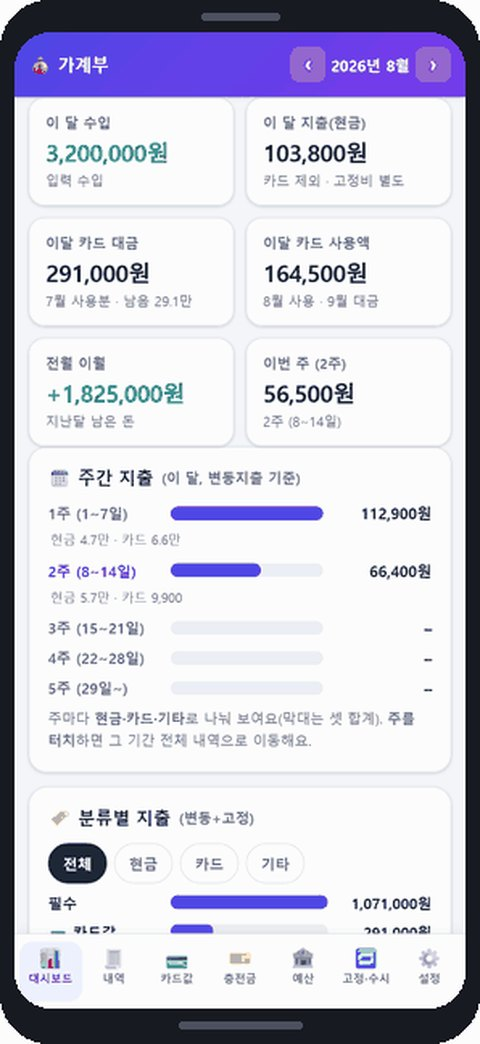
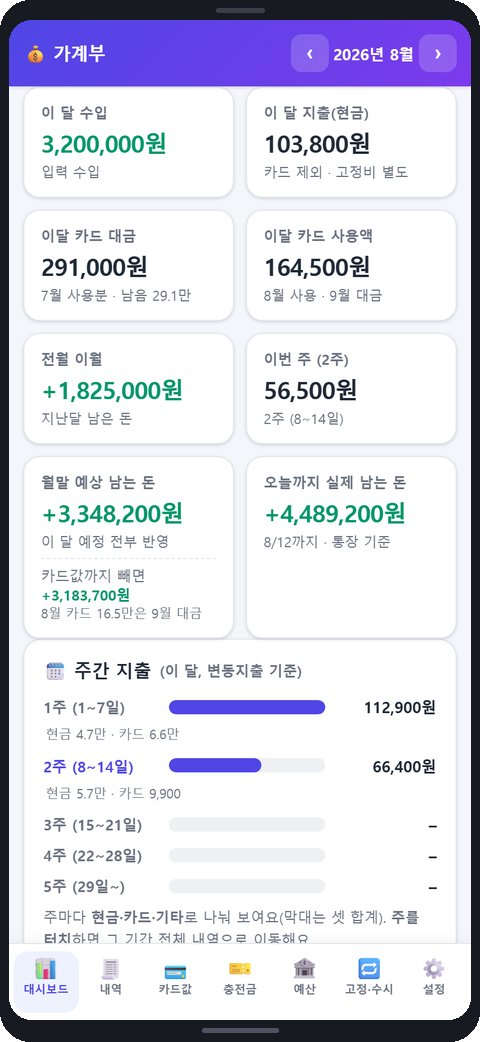
가계부 시연 영상·정지 화면 갱신, 상태 줄 v2.28 @49·jsdom 403/403

diff --git a/site/index.html b/site/index.html
@@ -1253,7 +1253,7 @@ html.is-modal{overflow:hidden;padding-right:var(--sbw,0px)}
         <article class="card">
           <div class="card-shot" data-shot="budget" aria-hidden="true"></div>
           <div class="card-meta" data-i18n="개인-프로덕트-기획-개발">개인 프로덕트 · 기획 · 개발 · 운영</div>
-          <div class="card-wm" aria-hidden="true">v2.23</div>
+          <div class="card-wm" aria-hidden="true">v2.28</div>
           <div class="card-bot">
             <h3><button class="card-open" type="button" data-work="budget" aria-haspopup="dialog" data-i18n="우리집-가계부">우리집 가계부<span class="sr-only" data-i18n="상세-보기"> 상세 보기</span><svg class="ic" aria-hidden="true"><use href="#i-arrup"/></svg></button></h3>
             <p data-i18n="부부-2인이-매일-쓰는">부부 2인이 매일 쓰는 가계부 웹앱. Google Apps Script + 단일 HTML 구성으로 라이브 운영 중.</p>
@@ -1918,9 +1918,9 @@ const WORKS = {
        { href:'https://v.douyu.com/show/jNBdvnrxRzBvE2yw', label:'유저 하이라이트' }] },
   // 개인 프로덕트 — v(시연 영상)·l(외부 링크)은 이 항목에만 있는 선택 필드다.
   budget: { m:'개인 프로덕트 · 기획 · 개발 · 운영', t:'우리집 가계부',
-    s:[['222/222','jsdom 테스트'],['56/56','레이아웃 테스트']],
+    s:[['403/403','jsdom 테스트'],['56/56','레이아웃 테스트']],
     r:[['무엇','부부 2인이 매일 쓰는 가계부 웹앱. Google Apps Script + 단일 HTML 구성'],
-       ['상태','라이브 운영 중 — 우리집판 v2.23, 배포 @44 (2026-08-03 기준)'],
+       ['상태','라이브 운영 중 — 우리집판 v2.28, 배포 @49 (2026-10-31 기준)'],
        ['만든 방식','AI로 혼자 만들어 매일 돌리고, 라이트 체험판까지 외부 배포']],
     v:{ src:'media/budget-demo.webp', still:'works/budget.jpg', alt:'우리집 가계부 폰 화면 시연',
         cap:'가상 데이터로 촬영한 시연 — 실제 가계 수치가 아닙니다.' },

diff --git a/site/en/index.html b/site/en/index.html
@@ -1253,7 +1253,7 @@ html.is-modal{overflow:hidden;padding-right:var(--sbw,0px)}
         <article class="card">
           <div class="card-shot" data-shot="budget" aria-hidden="true"></div>
           <div class="card-meta">Personal product · design · development · operations</div>
-          <div class="card-wm" aria-hidden="true">v2.23</div>
+          <div class="card-wm" aria-hidden="true">v2.28</div>
           <div class="card-bot">
             <h3><button class="card-open" type="button" data-work="budget" aria-haspopup="dialog">Our Household Budget<span class="sr-only"> View details</span><svg class="ic" aria-hidden="true"><use href="#i-arrup"/></svg></button></h3>
             <p>A budget web app the two of us use every day. Built on Google Apps Script + a single HTML file, running live.</p>
@@ -1918,9 +1918,9 @@ const WORKS = {
        { href:'https://v.douyu.com/show/jNBdvnrxRzBvE2yw', label:'User highlights' }] },
   // 개인 프로덕트 — v(시연 영상)·l(외부 링크)은 이 항목에만 있는 선택 필드다.
   budget: { m:'Personal product · design · development · operations', t:'Our Household Budget',
-    s:[['222/222','jsdom tests'],['56/56','Layout tests']],
+    s:[['403/403','jsdom tests'],['56/56','Layout tests']],
     r:[['What','A budget web app the two of us use daily. Google Apps Script plus a single HTML file'],
-       ['Status','Running live — home edition v2.23, deployment @44 (as of 2026-08-03)'],
+       ['Status','Running live — home edition v2.28, deployment @49 (as of 2026-10-31)'],
        ['How it was built','Built solo with AI, used daily, with a lite demo released publicly']],
     v:{ src:'../media/budget-demo.webp', still:'../works/budget.jpg', alt:'Our Household Budget phone demo',
         cap:'Demo recorded with dummy data — not real household figures.' },
